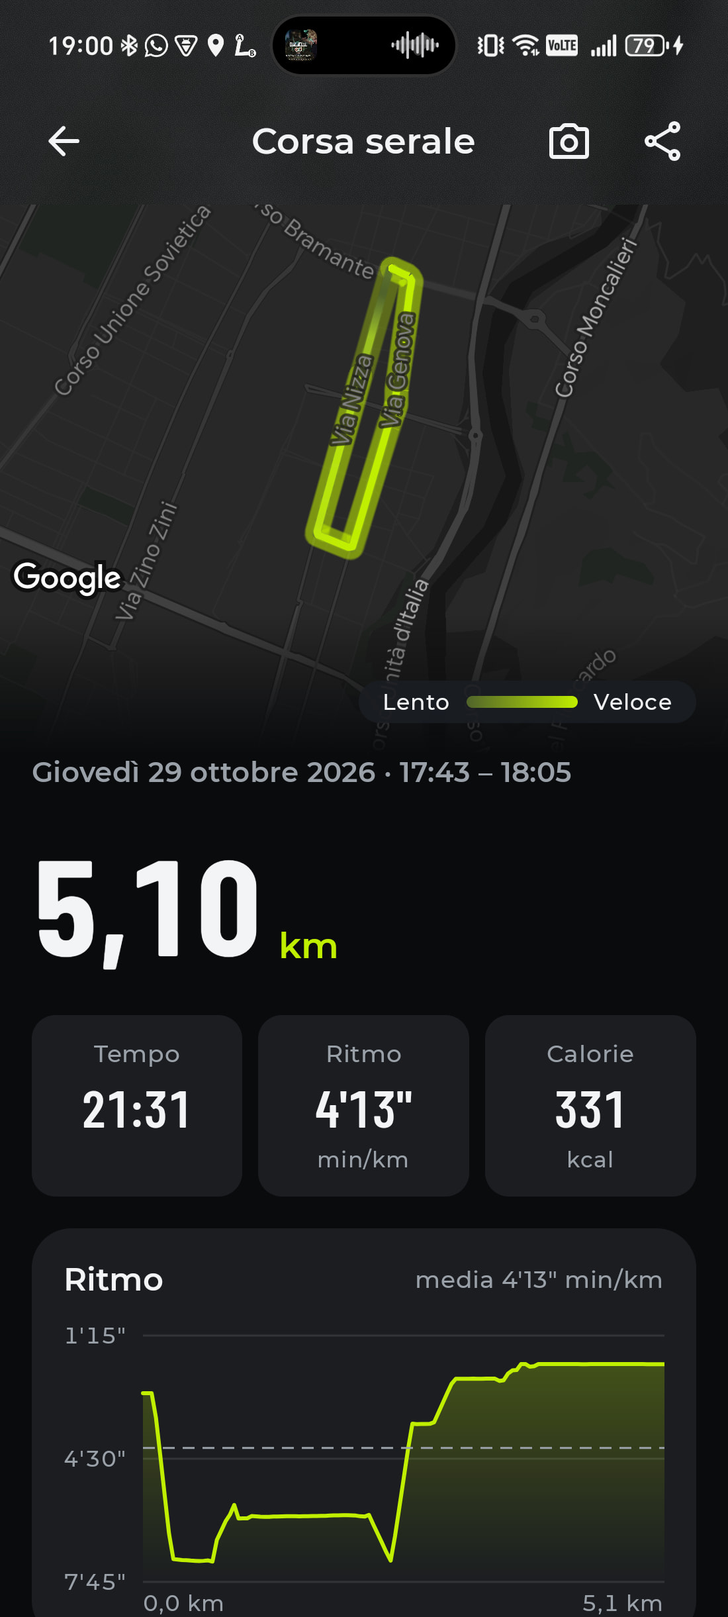
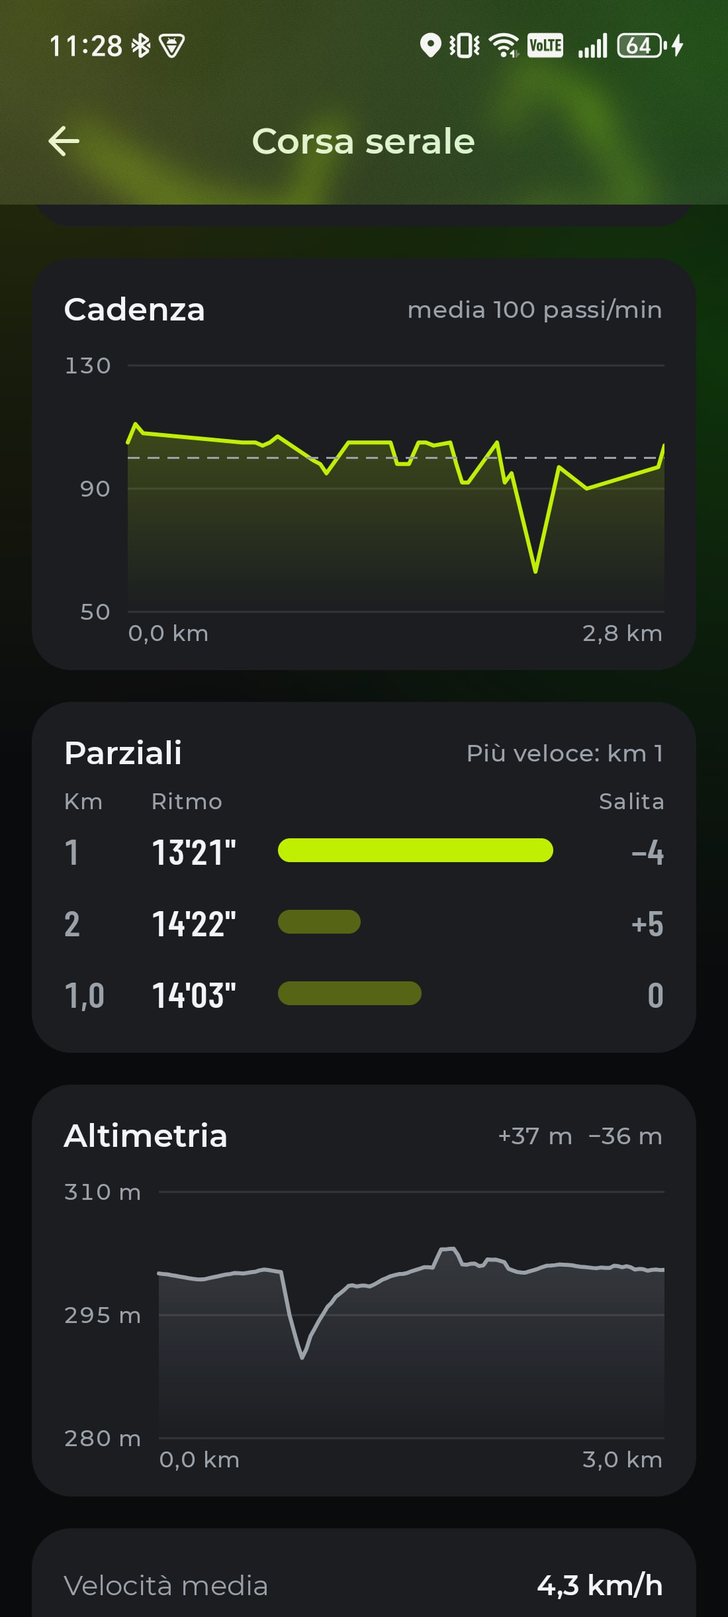
updated Beat Runner's screenshots and description

diff --git a/src/content/projects/beatrunner.md b/src/content/projects/beatrunner.md
@@ -1,12 +1,12 @@
 ---
 title: Beat Runner
-summary: L'app di corsa con la musica al centro. Playlist curate per atmosfera o per ritmo, modalità che legano la musica al passo e suggerimenti sulla tua cadenza media, più GPS, ritmo e passi al minuto in diretta.
+summary: L'app di corsa con la musica al centro. Playlist curate per atmosfera o per ritmo, modalità che legano la musica al passo e suggerimenti sulla tua cadenza media. In più obiettivi, voce naturale anche offline, Health Connect, e GPS, ritmo e passi al minuto in diretta.
 platform: android
 year: 2026
 client: Progetto personale
 role: Ideazione, design e sviluppo
 status: In arrivo su Google Play
-stack: [Kotlin, Jetpack Compose, MVI, Hilt, Navigation 3, Coroutines & Flow, Firebase, Google Maps, Glance, Baseline Profile]
+stack: [Kotlin, Jetpack Compose, MVI, Hilt, Navigation 3, Coroutines & Flow, Firebase, Google Maps, Health Connect, Glance, Baseline Profile]
 accent: '#C1EF00'
 cover: ../../assets/projects/beatrunner/cover-photo.jpg
 coverEffect: beatrunner-neon
@@ -14,34 +14,41 @@ coverPosition: right
 featured: true
 order: 1
 highlights:
-  - Playlist Atmosfera e Ritmiche, con BPM misurati
+  - Playlist con il ritmo misurato brano per brano
   - Modalità Libera e Metronomo sulla cadenza
-  - Da ~16k righe XML e Fragment a 100% Compose
-  - 11 moduli Gradle con convention plugin
-  - Corsa che sopravvive alla chiusura dell'app
+  - Obiettivi, voce naturale offline e pausa automatica
+  - Health Connect, import GPX/TCX/FIT ed export GPX
+  - Da ~16k righe XML e Fragment a 100% Compose, in 12 moduli
 links:
   - label: "Lo studio su musica e sport (2020)"
     href: https://pubmed.ncbi.nlm.nih.gov/31804098/
 gallery:
-  - src: ../../assets/projects/beatrunner/run.jpg
-    caption: Corsa in diretta
-  - src: ../../assets/projects/beatrunner/playlists.jpg
-    caption: Playlist per correre
+  - src: ../../assets/projects/beatrunner/music.jpg
+    caption: Playlist e modalità musica
+  - src: ../../assets/projects/beatrunner/modes.jpg
+    caption: Come la musica accompagna la corsa
+  - src: ../../assets/projects/beatrunner/tempo.jpg
+    caption: Il ritmo, brano per brano
+  - src: ../../assets/projects/beatrunner/goal.jpg
+    caption: Obiettivo della corsa
   - src: ../../assets/projects/beatrunner/detail.jpg
-    caption: Dettaglio della corsa
+    caption: Cadenza, parziali e altimetria
   - src: ../../assets/projects/beatrunner/diary.jpg
-    caption: Diario mese per mese
+    caption: Diario con la colonna sonora del mese
+  - src: ../../assets/projects/beatrunner/health.jpg
+    caption: Health Connect e corse da altre app
 plain:
-  summary: Un'app per chi corre con la musica nelle orecchie. Propone playlist che creano l'atmosfera giusta o che vanno a tempo con il tuo passo, e registra percorso, tempi e passi al minuto. L'ho ideata, disegnata e sviluppata da solo.
+  summary: Un'app per chi corre con la musica nelle orecchie. Propone playlist che creano l'atmosfera giusta o che vanno a tempo con il tuo passo, registra percorso, tempi e passi al minuto e ti accompagna con una voce naturale. L'ho ideata, disegnata e sviluppata da solo.
   tags: [App Android, Sport e musica, In arrivo su Google Play]
   challenge: "È nata nel 2021 per imparare Kotlin, arrivando da Java, e unisce le mie tre passioni: la corsa, la musica e lo sviluppo di app. La musica fa davvero correre meglio, lo dicono molti studi. Volevo un'app che la mettesse al centro, non come sottofondo."
-  solution: Playlist curate in due famiglie. Le Atmosfera ti immergono in un mondo, dai videogiochi agli anime; le Ritmiche tengono un battito costante. Puoi correre in modalità Libera o Metronomo, dove la musica ti dà il passo. L'app conta i tuoi passi al minuto e ti suggerisce le playlist adatte alla tua cadenza media.
+  solution: "Playlist curate in famiglie: le Atmosfera ti immergono in un mondo, dai videogiochi agli anime; le Ritmiche tengono un battito costante; quelle da allenamento cambiano ritmo a blocchi. Puoi correre in modalità Libera o Metronomo, dove la musica ti dà il passo. L'app conta i tuoi passi al minuto, ti suggerisce le playlist adatte alla tua cadenza, ti aiuta a raggiungere i tuoi obiettivi e si collega alle altre app di corsa tramite Health Connect."
   result: Un'app curata in ogni dettaglio, veloce, in italiano e inglese, pronta per la pubblicazione su Google Play. Nel frattempo è diventata la mia palestra per ogni tecnica moderna di sviluppo Android.
   highlights:
     - Ideazione, design e sviluppo in autonomia
     - Musica scelta in base al tuo passo
-    - Funziona anche a schermo spento e senza rete
-    - Widget, condivisione social e assistente vocale
+    - Obiettivi per la corsa e per la settimana
+    - Voce naturale che funziona anche senza rete
+    - Corse importate da Strava e dalle altre app
     - Disponibile in italiano e inglese
 ---
 
@@ -49,7 +56,7 @@ plain:
 
 Beat Runner nasce nel 2021 come progetto personale per imparare **Kotlin**, arrivando da Java. Ho scelto un tema che mettesse insieme le mie tre passioni: la corsa, la musica e lo sviluppo di app.
 
-Chi corre con la musica non pensa ai chilometri, pensa alla playlist. Beat Runner parte da qui: scegli la colonna sonora, premi Play e corri. Le playlist si aprono nell'app musicale che usi già (Spotify, SoundCloud, YouTube Music). L'app registra il percorso e ti dice quanta musica manca alla fine. Durante la corsa vedi tempo, distanza, ritmo, calorie e **cadenza**, cioè i passi al minuto letti dal contapassi del telefono. Un assistente vocale annuncia i traguardi anche a schermo spento.
+Chi corre con la musica non pensa ai chilometri, pensa alla playlist. Beat Runner parte da qui: scegli la colonna sonora, premi Play e corri. Le playlist si aprono nell'app musicale che usi già (Spotify, SoundCloud, YouTube Music). L'app registra il percorso e ti dice quanta musica manca alla fine. Durante la corsa vedi tempo, distanza, ritmo attuale e medio, il tempo dell'ultimo chilometro, calorie e **cadenza**, cioè i passi al minuto letti dal contapassi del telefono.
 
 ## Perché la musica conta
 
@@ -60,9 +67,12 @@ Il **ritmo** conta, quindi, e non solo la canzone che piace. Da qui l'idea di da
 Beat Runner lavora su entrambi i fronti, l'emozione e il ritmo.
 
 - **Playlist Atmosfera**: curate per mood e immaginario, dalle colonne sonore dei videogiochi agli anime e ai brani orchestrali epici. Il ritmo cambia da un brano all'altro, e va bene così: il valore è il percorso emotivo, la carica che ti porta oltre il chilometro in cui vorresti fermarti.
-- **Playlist Ritmiche**: costruite su un BPM costante, una fascia di cadenza come "165–170 passi/min", oppure su una sequenza di fasce pensata per l'allenamento.
+- **Playlist Ritmiche**: costruite su un BPM costante, una fascia di cadenza come "165–170 passi/min".
+- **Playlist da allenamento**: una sequenza di fasce di ritmo. L'app la divide in blocchi dal tempo dei brani, te li annuncia e te li mostra quando arrivano, e li ritrovi evidenziati sul grafico della cadenza.
 
-Per distinguerle ho misurato i BPM di ogni brano del catalogo con strumenti scritti apposta in Python. Ascoltano l'audio di sistema mentre la playlist suona (WASAPI loopback) e stimano il tempo con onset envelope e autocorrelazione. Nel catalogo finiscono solo i BPM misurati, e il report propone l'etichetta: Ritmica quando almeno l'80% dei brani sta entro ±4% dal BPM mediano.
+Per distinguerle ho misurato i BPM di ogni brano del catalogo con strumenti scritti apposta in Python. Ascoltano l'audio di sistema mentre la playlist suona (WASAPI loopback) e stimano il tempo con onset envelope e autocorrelazione. Nel catalogo finiscono solo i BPM misurati, e il report propone l'etichetta: Ritmica quando almeno l'80% dei brani sta entro ±4% dal BPM mediano. Nella scheda di ogni playlist si vede il ritmo **brano per brano**, in un grafico a gradini.
+
+Anche le copertine vengono dai dati: l'emblema della famiglia musicale, il grafico del tempo nella forma della categoria e un colore neon che dipende dal ritmo. E chi corre può dare un pollice su o giù alla playlist di una corsa: quelle bocciate non vengono più suggerite, e i totali anonimi aiutano a curare il catalogo.
 
 ## Le modalità musica
 
@@ -76,7 +86,27 @@ Le modalità che il tuo account non regge si vedono, ma spente e con il motivo. 
 
 ## La cadenza come filo conduttore
 
-A ogni corsa l'app registra i passi al minuto, minuto per minuto, dal contapassi del telefono; senza sensore, li stima da velocità e altezza. Dalle ultime corse calcola la tua **cadenza media**. È lei a guidare i suggerimenti: in cima alla lista delle playlist compare "Per la tua cadenza: 168 passi/min" con la playlist che ci va a tempo, considerando anche i brani a metà o al doppio del tempo. La stessa cadenza è nel profilo, nel dettaglio di ogni corsa e nell'immagine da condividere.
+A ogni corsa l'app registra i passi al minuto, minuto per minuto, dal contapassi del telefono; senza sensore, li stima da velocità e altezza. Dalle ultime corse calcola la tua **cadenza media**. È lei a guidare i suggerimenti: in cima alla lista compare la playlist ritmica che va a tempo con il tuo passo, considerando anche i brani a metà o al doppio del tempo. Di ogni playlist l'app ti dice quanta parte suona sulla tua cadenza. La stessa cadenza è nel profilo, nel dettaglio di ogni corsa e nell'immagine da condividere.
+
+## Obiettivi, voce e pausa automatica
+
+- **Obiettivo della corsa**, a tempo o a distanza, scelto con uno slider prima di partire. L'app suggerisce una playlist che dura altrettanto, mostra una barra di avanzamento e la voce ti avvisa a metà e alla fine.
+- **Obiettivo della settimana**, in chilometri o in corse. Lo vedi nel widget e a fine corsa; una schermata dedicata mostra le settimane di fila e le ultime dodici a confronto con l'obiettivo.
+- **Assistente vocale** che parla in frasi naturali: distanza e tempo, ritmo, calorie, ogni tot chilometri o minuti. Mentre parla abbassa la musica e poi la riporta su. Oltre alle voci del sistema ci sono **voci naturali** (modelli Piper) che si scaricano una volta e funzionano anche offline.
+- **Pausa automatica**: quando ti fermi, si ferma anche la corsa, musica compresa.
+- Chilometri o miglia in tutta l'app, voce compresa. Le impostazioni seguono l'account su ogni telefono.
+
+## Health Connect e le altre app
+
+Beat Runner non vuole essere un'isola. Ogni corsa si salva in **Health Connect** con percorso, distanza, calorie e passi, e il battito di un orologio o di una fascia compare nel dettaglio.
+
+Funziona anche al contrario: le corse registrate da Strava, adidas Running e dalle altre app arrivano nel diario, una volta sola e senza doppioni. Si importano anche file **GPX, TCX e FIT**, compresi gli zip e l'intero archivio di dati di Strava. Ogni corsa si può esportare in GPX.
+
+## Il diario, le scarpe e l'anno in musica
+
+- Il dettaglio di ogni corsa ha i grafici di ritmo, cadenza e altimetria, i parziali per chilometro e una **mappa a schermo intero** con uno slider per ripercorrere la corsa.
+- Le **scarpe**, con foto, chilometri calcolati dalle corse e un avviso quando è ora di cambiarle.
+- Il diario mese per mese con la **colonna sonora del mese**, e a dicembre e gennaio l'**anno in musica**: totali, mese migliore, playlist e cadenza, ognuno da condividere.
 
 ## Da progetto per imparare a prodotto
 
@@ -85,23 +115,30 @@ Essendo nata per imparare, Beat Runner portava i segni di quel percorso: circa 1
 Per portarla allo store l'ho rifondata. Non l'ho riscritta da zero: l'ho migrata **schermata per schermata**, con l'app sempre funzionante.
 
 - **Clean Architecture + MVI**: `State` immutabile in `StateFlow`, un solo punto di ingresso per gli `Intent`, `Effect` one-shot e reducer puri.
-- **11 moduli Gradle** (`core:domain` in Kotlin puro, `core:data`, `core:designsystem`, `feature:*`) con convention plugin condivisi.
+- **12 moduli Gradle** (`core:domain` in Kotlin puro, `core:data`, `core:designsystem`, `core:ui`, sei `feature:*`, il modulo del Baseline Profile e l'app) con convention plugin condivisi.
 - **Navigation 3** e una sola Activity: alla fine nessun Fragment, nessun `nav_graph.xml`.
 - Ogni schermata migrata vive nel suo modulo feature, ospitata da un Fragment "guscio" finché tutto non è Compose. Poi i gusci spariscono in un colpo.
 
 ## Il motore della corsa
 
-La parte più delicata. Il calcolo di segmenti, pause, tempo attivo e calorie vive nel domain come codice puro e testato. Un `RunTracker` legato al processo, non allo schermo, tiene viva la corsa anche se la mappa viene distrutta. Salva una cache ogni 10 secondi, così se l'app si chiude durante una corsa la riprendi da dove eri.
+La parte più delicata. Il calcolo di segmenti, pause, tempo attivo e calorie vive nel domain come codice puro e testato. Un `RunTracker` legato al processo, non allo schermo, tiene viva la corsa anche se la mappa viene distrutta. Salva una cache ogni 10 secondi, così se l'app si chiude durante una corsa la riprendi da dove eri. La direzione sulla mappa si calcola dalla traccia, non dalla bussola: con il telefono in tasca la bussola dice dove guarda il telefono, non dove corri.
 
 ## Un design system "neon glass"
 
-Ho costruito un modulo `core:designsystem` con superfici di vetro sfocato (Haze e BlurView, anche sopra la mappa), bordi e glow neon, `StatTile`, `ProgressRing` e tab segmentate. Il tema usa **Material 3 Expressive** con le animazioni a molla del `MotionScheme`. L'accento è a scelta dell'utente o preso dallo sfondo del telefono.
+Ho costruito un modulo `core:designsystem` con superfici di **liquid glass** (Haze e BlurView, anche sopra la mappa), bordi e glow neon, `StatTile`, `ProgressRing`, tab segmentate e sheet che sfocano lo schermo dietro. Il tema usa **Material 3 Expressive** con le animazioni a molla del `MotionScheme`.
 
-> Il vetro non si testa su Robolectric: il blur va guardato su un dispositivo vero.
+L'interfaccia prende il **mood della playlist** scelta: una luce morbida nei suoi colori dietro le schermate e sopra la mappa. L'accento si sceglie tra Volt, Ciano, Magenta, Arancio, il colore dello sfondo del telefono o quello della playlist; il tema chiaro ricava i suoi grigi dalla tinta dell'accento.
+
+> Il vetro non si testa su Robolectric: il blur va guardato su un dispositivo vero. Per il resto ci sono gli screenshot test con Roborazzi.
+
+## Prestazioni
+
+- **Baseline Profile** generato e misurato da un modulo dedicato, per un avvio più rapido.
+- Compose senza lavoro inutile: collezioni immutabili negli stati, classi del domain dichiarate stabili, calcoli ricordati e grafici disegnati con `drawWithCache`, così le etichette non si rimisurano a ogni frame. I report del compilatore Compose si attivano con un flag.
 
 ## I dettagli che fanno la differenza
 
-- **Widget** della settimana con Glance: chilometri, giorni di corsa e la playlist della prossima uscita, con Play per partire subito.
-- **Condivisione**: un'immagine con mappa o foto e i numeri della corsa disegnati sopra su canvas.
-- Il diario delle corse mese per mese, con la colonna sonora del mese.
-- Ogni permesso spiegato prima di chiederlo, preferenze cifrate escluse dai backup, **Baseline Profile** per un avvio più rapido.
+- **Widget** della settimana con Glance: chilometri, obiettivo e la playlist della prossima uscita, con Play per partire subito.
+- **Condivisione**: un'immagine con mappa o foto e i numeri della corsa disegnati sopra su canvas, nei colori della playlist.
+- La notifica della corsa si vede anche dalla schermata di blocco e ti dice quanto manca all'obiettivo.
+- Ogni permesso spiegato prima di chiederlo, preferenze cifrate escluse dai backup.

diff --git a/src/content/projects-en/beatrunner.md b/src/content/projects-en/beatrunner.md
@@ -1,12 +1,12 @@
 ---
 title: Beat Runner
-summary: The running app with music at its heart. Playlists curated for atmosphere or for rhythm, modes that tie the music to your stride and suggestions based on your average cadence, plus live GPS, pace and steps per minute.
+summary: The running app with music at its heart. Playlists curated for atmosphere or for rhythm, modes that tie the music to your stride and suggestions based on your average cadence. Plus goals, a natural voice that works offline, Health Connect, and live GPS, pace and steps per minute.
 platform: android
 year: 2026
 client: Personal project
 role: Concept, design and development
 status: Coming soon to Google Play
-stack: [Kotlin, Jetpack Compose, MVI, Hilt, Navigation 3, Coroutines & Flow, Firebase, Google Maps, Glance, Baseline Profile]
+stack: [Kotlin, Jetpack Compose, MVI, Hilt, Navigation 3, Coroutines & Flow, Firebase, Google Maps, Health Connect, Glance, Baseline Profile]
 accent: '#C1EF00'
 cover: ../../assets/projects/beatrunner/cover-photo.jpg
 coverEffect: beatrunner-neon
@@ -14,34 +14,41 @@ coverPosition: right
 featured: true
 order: 1
 highlights:
-  - Atmosphere and Rhythmic playlists, with measured BPM
+  - Playlists with their tempo measured track by track
   - Free and Metronome modes based on cadence
-  - From ~16k lines of XML and Fragments to 100% Compose
-  - 11 Gradle modules with convention plugins
-  - A run that survives the app being closed
+  - Goals, an offline natural voice and auto pause
+  - Health Connect, GPX/TCX/FIT import and GPX export
+  - From ~16k lines of XML and Fragments to 100% Compose, in 12 modules
 links:
   - label: "The study on music and exercise (2020)"
     href: https://pubmed.ncbi.nlm.nih.gov/31804098/
 gallery:
-  - src: ../../assets/projects/beatrunner/en/run.jpg
-    caption: Live run
-  - src: ../../assets/projects/beatrunner/en/playlists.jpg
-    caption: Playlists for running
+  - src: ../../assets/projects/beatrunner/en/music.jpg
+    caption: Playlists and music modes
+  - src: ../../assets/projects/beatrunner/en/modes.jpg
+    caption: How the music goes with your run
+  - src: ../../assets/projects/beatrunner/en/tempo.jpg
+    caption: Tempo, track by track
+  - src: ../../assets/projects/beatrunner/en/goal.jpg
+    caption: Goal of the run
   - src: ../../assets/projects/beatrunner/en/detail.jpg
-    caption: Run detail
+    caption: Cadence, splits and elevation
   - src: ../../assets/projects/beatrunner/en/diary.jpg
-    caption: Month-by-month diary
+    caption: Diary with the soundtrack of the month
+  - src: ../../assets/projects/beatrunner/en/health.jpg
+    caption: Health Connect and runs from other apps
 plain:
-  summary: An app for people who run with music in their ears. It suggests playlists that set the right atmosphere or keep time with your stride, and it records your route, times and steps per minute. I conceived, designed and built it on my own.
+  summary: An app for people who run with music in their ears. It suggests playlists that set the right atmosphere or keep time with your stride, records your route, times and steps per minute, and keeps you company with a natural voice. I conceived, designed and built it on my own.
   tags: [Android app, Sport and music, Coming soon to Google Play]
   challenge: "It started in 2021 as a way to learn Kotlin, coming from Java, and it brings together my three passions: running, music and building apps. Music really does make you run better, as many studies show. I wanted an app that put it at the center, not in the background."
-  solution: Playlists curated in two families. Atmosphere playlists immerse you in a world, from video games to anime; Rhythmic playlists keep a steady beat. You can run in Free or Metronome mode, where the music sets your pace. The app counts your steps per minute and suggests playlists that match your average cadence.
+  solution: "Playlists curated in families: Atmosphere playlists immerse you in a world, from video games to anime; Rhythmic playlists keep a steady beat; workout playlists change tempo in blocks. You can run in Free or Metronome mode, where the music sets your pace. The app counts your steps per minute, suggests playlists that match your cadence, helps you reach your goals and connects to other running apps through Health Connect."
   result: An app crafted down to the details, fast, in Italian and English, ready for release on Google Play. Along the way it has become my playground for every modern Android technique.
   highlights:
     - Conceived, designed and built on my own
     - Music chosen to match your stride
-    - Works with the screen off and without a connection
-    - Widget, social sharing and voice coach
+    - Goals for the run and for the week
+    - A natural voice that works without a connection
+    - Runs imported from Strava and other apps
     - Available in Italian and English
 ---
 
@@ -49,7 +56,7 @@ plain:
 
 Beat Runner started in 2021 as a personal project to learn **Kotlin**, coming from Java. I picked a theme that brought together my three passions: running, music and building apps.
 
-People who run with music don't think about kilometers, they think about the playlist. Beat Runner starts from there: pick the soundtrack, press Play and run. Playlists open in the music app you already use (Spotify, SoundCloud, YouTube Music). The app records your route and tells you how much music is left. While running you see time, distance, pace, calories and **cadence**, the steps per minute read from the phone's step counter. A voice coach announces your milestones even with the screen off.
+People who run with music don't think about kilometers, they think about the playlist. Beat Runner starts from there: pick the soundtrack, press Play and run. Playlists open in the music app you already use (Spotify, SoundCloud, YouTube Music). The app records your route and tells you how much music is left. While running you see time, distance, current and average pace, the last kilometer's time, calories and **cadence**, the steps per minute read from the phone's step counter.
 
 ## Why music matters
 
@@ -60,9 +67,12 @@ So **tempo** matters, not just the song you like. That's where the idea came fro
 Beat Runner works on both fronts, emotion and rhythm.
 
 - **Atmosphere playlists**: curated for mood and imagery, from video game soundtracks to anime and epic orchestral tracks. The tempo changes from track to track, and that's fine: their value is the emotional journey, the push that carries you past the kilometer where you'd want to stop.
-- **Rhythmic playlists**: built on a steady BPM, a cadence band such as "165–170 steps/min", or a sequence of bands designed for a workout.
+- **Rhythmic playlists**: built on a steady BPM, a cadence band such as "165–170 steps/min".
+- **Workout playlists**: a sequence of tempo bands. The app splits them into blocks from the tracks' tempo, announces and shows each block as you reach it, and shades them on the cadence chart.
 
-To tell them apart I measured the BPM of every track in the catalog with tools I wrote in Python. They listen to the system audio while the playlist plays (WASAPI loopback) and estimate the tempo with an onset envelope and autocorrelation. Only measured BPM values go into the catalog, and the report suggests the label: Rhythmic when at least 80% of the tracks fall within ±4% of the median BPM.
+To tell them apart I measured the BPM of every track in the catalog with tools I wrote in Python. They listen to the system audio while the playlist plays (WASAPI loopback) and estimate the tempo with an onset envelope and autocorrelation. Only measured BPM values go into the catalog, and the report suggests the label: Rhythmic when at least 80% of the tracks fall within ±4% of the median BPM. Each playlist's sheet shows the tempo **track by track**, as a step chart.
+
+The covers come from the data too: the emblem of the music family, the tempo chart in the shape of its category and a neon color set by the pace. Runners can also give a run's playlist a thumbs up or down: the ones voted down are no longer suggested, and the anonymous totals help curate the catalog.
 
 ## Music modes
 
@@ -76,7 +86,27 @@ Modes your account can't support are shown, but disabled and with the reason. Au
 
 ## Cadence as the common thread
 
-On every run the app records your steps per minute, minute by minute, from the phone's step counter; without the sensor it estimates them from speed and height. From your recent runs it works out your **average cadence**, and that drives the suggestions: at the top of the playlist list you see "For your cadence: 168 steps/min" with the playlist that keeps time with it, counting tracks at half or double tempo too. The same cadence appears on your profile, on every run's detail and in the image you share.
+On every run the app records your steps per minute, minute by minute, from the phone's step counter; without the sensor it estimates them from speed and height. From your recent runs it works out your **average cadence**, and that drives the suggestions: at the top of the list you find the rhythmic playlist that keeps time with your stride, counting tracks at half or double tempo too. For every playlist the app tells you how much of it plays on your cadence. The same cadence appears on your profile, on every run's detail and in the image you share.
+
+## Goals, voice and auto pause
+
+- **Run goal**, by time or distance, picked with a slider before you start. The app suggests a playlist that lasts as long, shows a progress bar, and the voice tells you at halfway and at the end.
+- **Weekly goal**, in kilometers or runs. You see it on the widget and at the end of each run; a dedicated screen shows your streak of weeks and the last twelve against the goal.
+- A **voice coach** that speaks in natural sentences: distance and time, pace, calories, every few kilometers or minutes. While it talks the music goes down, then comes back. Besides the system voices there are **natural voices** (Piper models) that you download once and that work offline.
+- **Auto pause**: when you stop, the run stops too, music included.
+- Kilometers or miles across the app, voice included. Settings follow your account to every phone.
+
+## Health Connect and other apps
+
+Beat Runner doesn't want to be an island. Every run is saved to **Health Connect** with route, distance, calories and steps, and the heart rate from a watch or chest strap shows up in the detail.
+
+It works the other way too: runs recorded by Strava, adidas Running and other apps come into the diary, once and without duplicates. You can also import **GPX, TCX and FIT** files, zipped ones and Strava's full data export included. Every run can be exported as GPX.
+
+## The diary, the shoes and the year in music
+
+- Every run's detail has pace, cadence and elevation charts, per-kilometer splits and a **full-screen map** with a slider to replay the run.
+- **Shoes**, with a photo, kilometers worked out from your runs and a warning when it's time to replace them.
+- A month-by-month diary with the **soundtrack of the month**, and in December and January the **year in music**: totals, best month, playlist and cadence, each one shareable.
 
 ## From learning project to product
 
@@ -85,23 +115,30 @@ Having started as a way to learn, Beat Runner carried the marks of that journey:
 To take it to the store I rebuilt its foundations. I didn't rewrite it from scratch: I migrated it **screen by screen**, with the app working at every step.
 
 - **Clean Architecture + MVI**: immutable `State` in a `StateFlow`, a single entry point for `Intent`s, one-shot `Effect`s and pure reducers.
-- **11 Gradle modules** (`core:domain` in pure Kotlin, `core:data`, `core:designsystem`, `feature:*`) with shared convention plugins.
+- **12 Gradle modules** (`core:domain` in pure Kotlin, `core:data`, `core:designsystem`, `core:ui`, six `feature:*` modules, the Baseline Profile module and the app) with shared convention plugins.
 - **Navigation 3** and a single Activity: in the end no Fragments and no `nav_graph.xml`.
 - Each migrated screen lives in its own feature module, hosted by a "shell" Fragment until everything is Compose. Then the shells disappear in one go.
 
 ## The run engine
 
-The most delicate part. Segments, pauses, active time and calories are computed in the domain layer as pure, tested code. A `RunTracker` tied to the process rather than the screen keeps the run alive even if the map is destroyed. It saves a cache every 10 seconds, so if the app closes mid-run you pick up where you left off.
+The most delicate part. Segments, pauses, active time and calories are computed in the domain layer as pure, tested code. A `RunTracker` tied to the process rather than the screen keeps the run alive even if the map is destroyed. It saves a cache every 10 seconds, so if the app closes mid-run you pick up where you left off. The heading on the map comes from the track, not the compass: with the phone in your pocket, the compass tells where the phone is facing, not where you're running.
 
 ## A "neon glass" design system
 
-I built a `core:designsystem` module with frosted-glass surfaces (Haze and BlurView, even over the map), neon borders and glow, `StatTile`, `ProgressRing` and segmented tabs. The theme uses **Material 3 Expressive** with the spring animations of the `MotionScheme`. The accent is the user's choice or taken from the phone's wallpaper.
+I built a `core:designsystem` module with **liquid glass** surfaces (Haze and BlurView, even over the map), neon borders and glow, `StatTile`, `ProgressRing`, segmented tabs and sheets that blur the screen behind them. The theme uses **Material 3 Expressive** with the spring animations of the `MotionScheme`.
 
-> Glass can't be tested on Robolectric: the blur has to be checked on a real device.
+The interface takes on the chosen **playlist's mood**: a soft light in its colors behind the screens and over the map. The accent can be Volt, Cyan, Magenta, Orange, the phone's wallpaper color or the playlist's; the light theme works out its greys from the accent's hue.
+
+> Glass can't be tested on Robolectric: the blur has to be checked on a real device. Everything else is covered by Roborazzi screenshot tests.
+
+## Performance
+
+- A **Baseline Profile**, generated and measured by a dedicated module, for faster startup.
+- Compose without wasted work: immutable collections in the states, domain classes declared stable, remembered computations and charts drawn with `drawWithCache`, so labels aren't measured again on every frame. The Compose compiler reports turn on with a flag.
 
 ## The details that make the difference
 
-- Weekly **widget** built with Glance: kilometers, running days and the playlist for your next run, with Play to start right away.
-- **Sharing**: an image with the map or a photo and the run's figures drawn on top with canvas.
-- A month-by-month run diary, with the soundtrack of the month.
-- Every permission explained before it's requested, encrypted preferences kept out of backups, and a **Baseline Profile** for faster startup.
+- Weekly **widget** built with Glance: kilometers, goal and the playlist for your next run, with Play to start right away.
+- **Sharing**: an image with the map or a photo and the run's figures drawn on top with canvas, in the playlist's colors.
+- The run notification shows on the lock screen and tells you how far the goal still is.
+- Every permission explained before it's requested, encrypted preferences kept out of backups.
